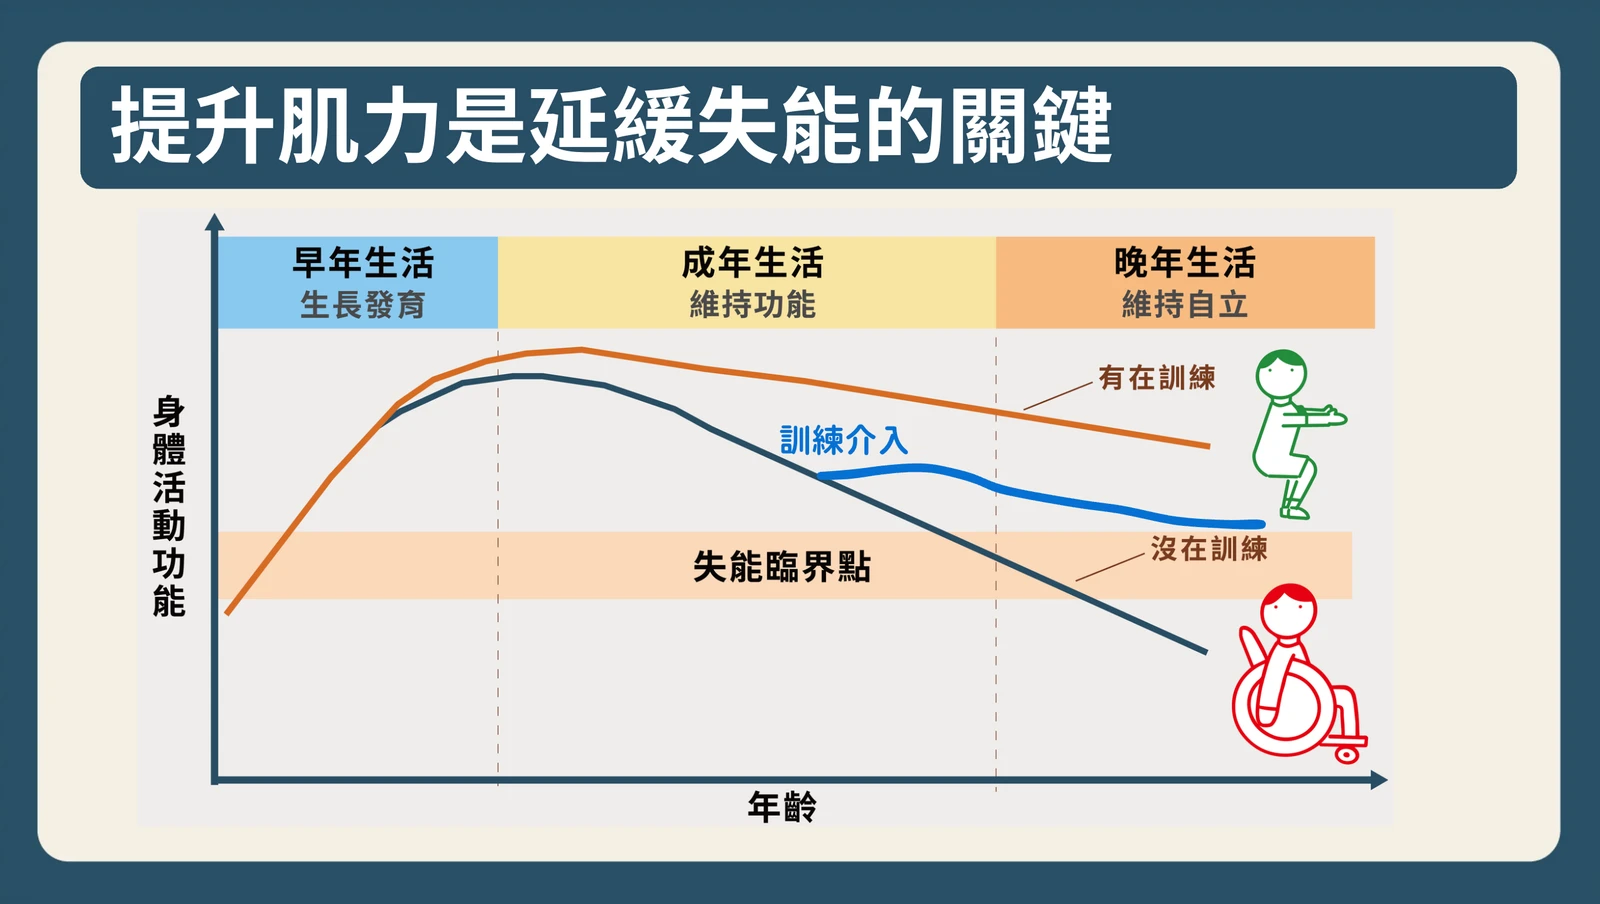
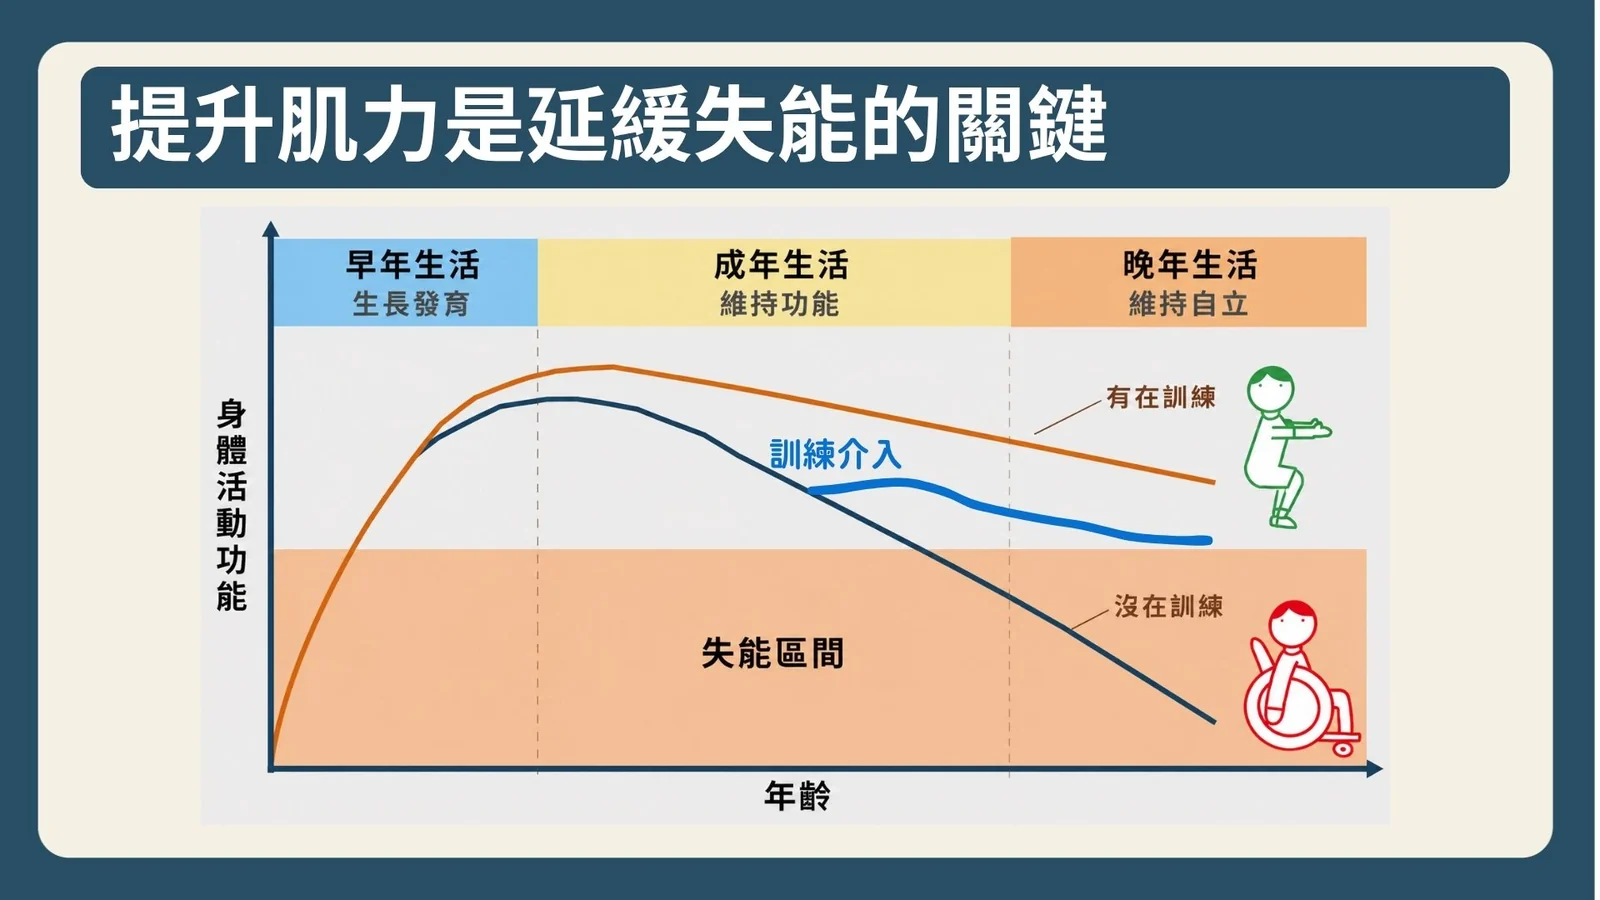
關於練健康：Hero 圖表換上業主新版
「失能臨界點」橫帶改為「失能區間」填色區塊，其餘構圖與外框樣式不變。

- 1920×1080 JPG 161KB → 1600×900 WebP 61KB（原檔 79KB）
- width/height 由 1600×904 更新為 1600×900，避免版面位移
- 卡片是 w-full h-auto，比例 1.770 → 1.778 幾乎不變，不影響排版

diff --git a/pages/about.vue b/pages/about.vue
@@ -198,7 +198,7 @@ const whatWeDo = [
               src="/images/about/belief-chart.webp"
               alt="提升肌力是延緩失能的關鍵：有在訓練與沒在訓練的身體活動功能隨年齡變化對照圖"
               width="1600"
-              height="904"
+              height="900"
               class="w-full h-auto rounded-xl"
             />
             <div class="mt-3 flex flex-wrap items-center justify-between gap-2">
